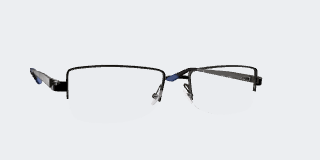
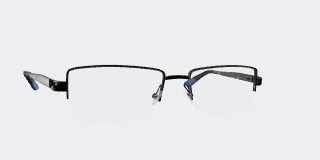
Move the ear point to fit side views too; keep a crisp arm end
A new side-view debug shot (MediaPipe fitting the face well) showed the
ear point ~4 cm behind the real ear, so the arm crossed the whole ear.
The earlier fit leaned on frames where MediaPipe underestimated the head
turn. Re-fitted on 12 real frames: [8.2, 2.6, -4.25] cm, close to a real
ear's position; worst-case miss drops from ~130 px to ~35 px. Arms are
12 cm so tips still end behind the ear.

A fade-out of the arm ends was tried side by side on 10 real frames and
dropped: at 2 cm it was barely visible, and transparent frame materials
stop the lenses refracting the frame. Thumbnails re-rendered.

Claude-Session: https://claude.ai/code/session_019vc9k68esawVbujnA8uCQS

Changed region(s): [[0.5, 0.4062, 0.8125, 0.5312], [0.0625, 0.4062, 0.1875, 0.5625]]

diff --git a/src/lib/config.ts b/src/lib/config.ts
@@ -60,20 +60,19 @@ export const CONFIG = {
 
   // Where the ears are, in MediaPipe's head coordinates (cm; +X = person's left,
   // +Y = up, +Z = towards the camera; eye centre is at y ≈ 2.6, nose tip at z ≈ 7.6).
-  // MediaPipe has no ear landmarks, so this is a fixed point, calibrated on real
-  // webcam frames (7 debug screenshots, front-ish to side-on): for each frame we
-  // marked where the top of the ear meets the head and chose the point that keeps
-  // the arm from overshooting past the ear in any frame (an arm floating in the air
-  // beside the ear looks far worse than one ending a few mm early). It sits further
-  // back than a real ear (~7.5, -4) because MediaPipe underestimates how far the
-  // head is turned in side views. Remaining error on those frames: about ±0.7 cm.
+  // MediaPipe has no ear landmarks, so this is a fixed point, calibrated on 12 real
+  // webcam frames (front-ish to side-on): for each we marked where the top of the
+  // ear meets the head and chose the point with the smallest worst-case miss. Close
+  // to a real ear's position. MediaPipe's head pose is only accurate to about ±1 cm
+  // this far behind the face, so in some views the arm ends up to ~1 cm early or
+  // late; a crisp end was found to look better than fading the arm out.
   ear: {
     // "Ear root": where the top of the ear joins the head; temple arms rest here.
     // Arms are aimed at this point and disappear behind the ear from there on.
     // Raise Y if arms cut through the ear; lower it if they float above it.
     // Move Z back (more negative) if arms vanish before reaching the ear; raise X
     // if, seen from the front, the arms end inside the face instead of at the ears.
-    rootCm: [7.8, 2.8, -7.8] as [number, number, number],
+    rootCm: [8.2, 2.6, -4.25] as [number, number, number],
     // How far above the ear root the middle of the arm passes (about half its thickness).
     armRestHeightCm: 0.25,
     // The invisible ear shape (see ear.ts): one solid ellipsoid holding the ear and
@@ -106,7 +105,7 @@ export const CONFIG = {
     // Every model's arms are stretched or shrunk to this so they reach over the ear
     // root and a few cm behind it.
     // Increase if arm tips stop on top of the ear; decrease if they poke out behind it.
-    templeLengthCm: 16,
+    templeLengthCm: 12,
     // Limits on that stretch, so an unusual model can't be distorted too much.
     templeStretchRange: [0.7, 1.5] as [number, number],
     // Arms modelled opened outwards by more than this (degrees) are swung back in
